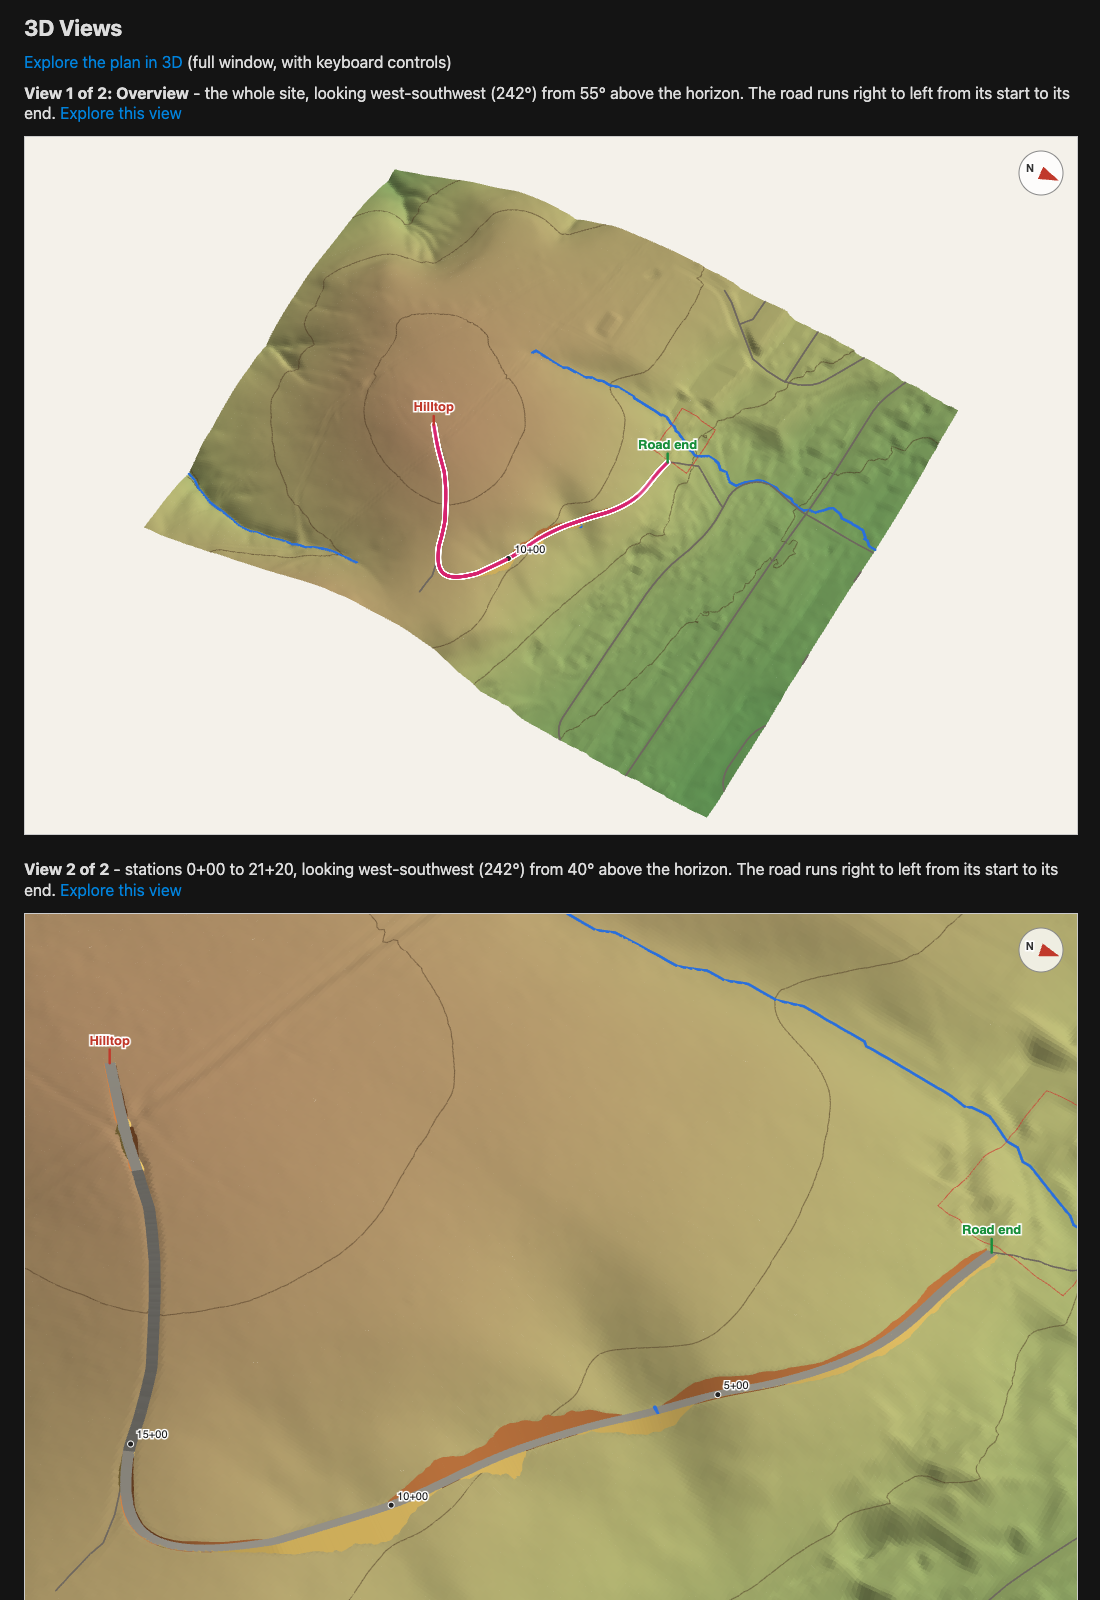
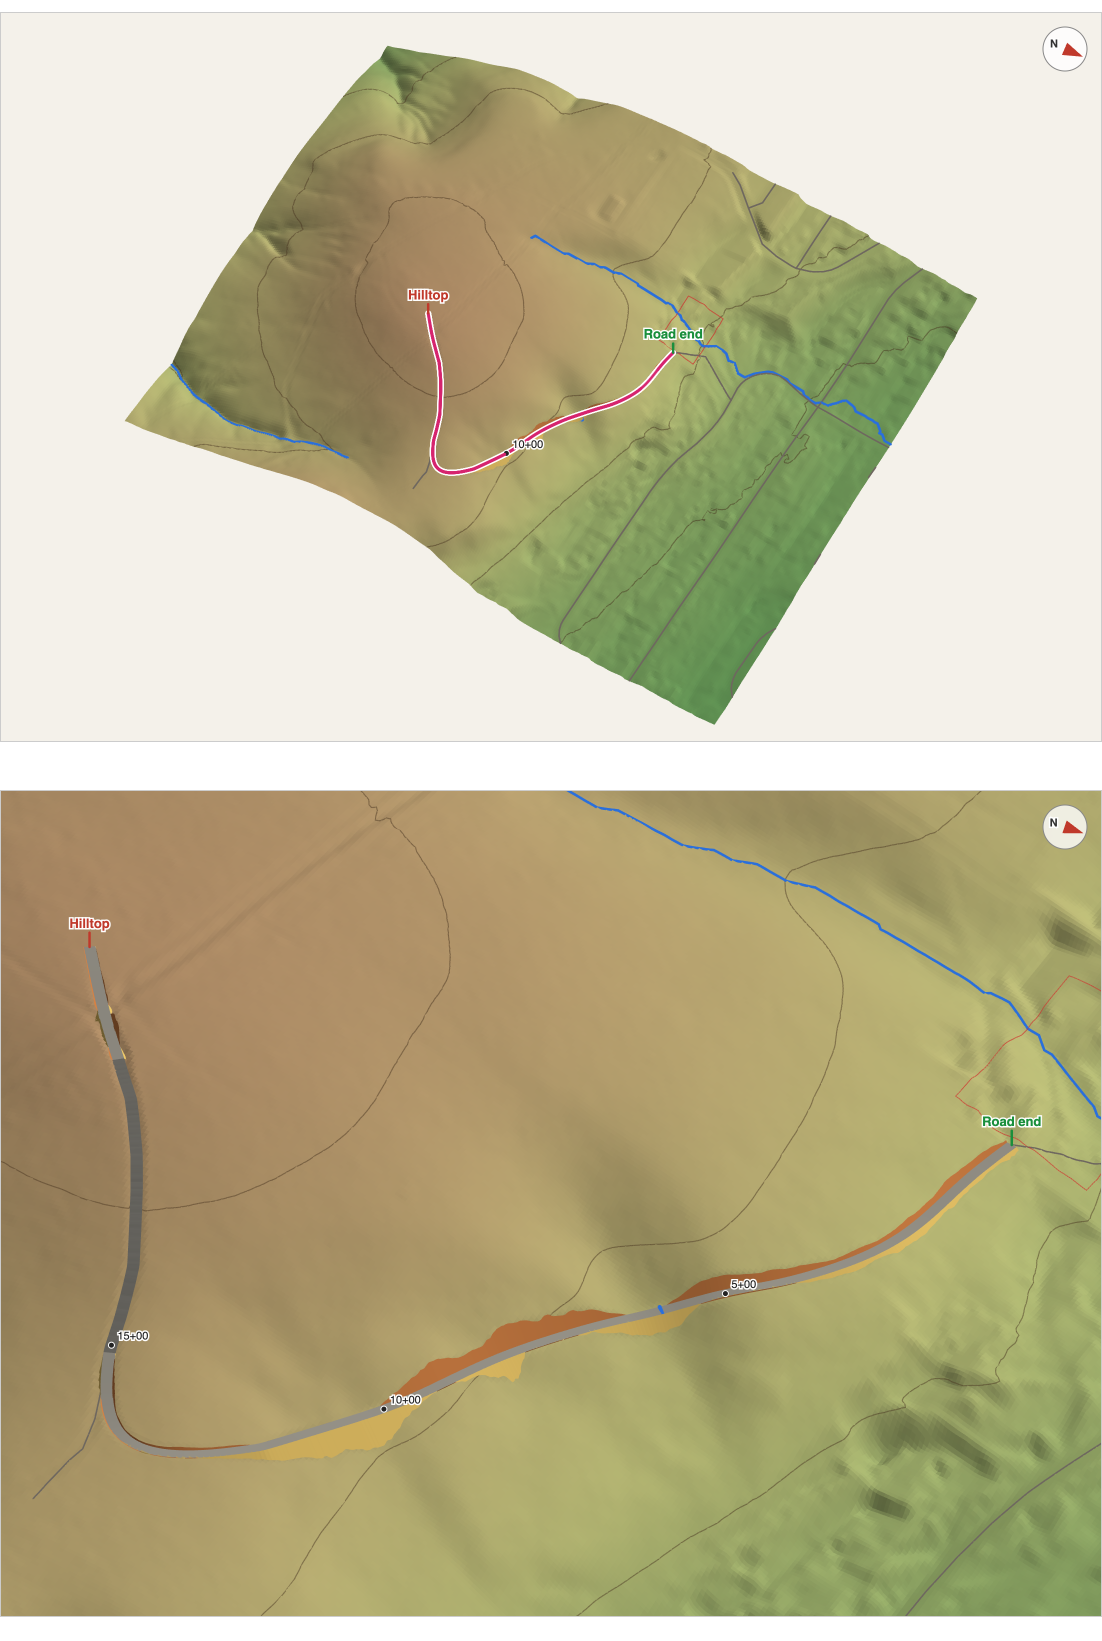
Link the README's screenshot and a new example link to the example plan
- The screenshot is the example report's two 3D drawings alone - it was
  the report's 3D views section, whose links (and stale "keyboard
  controls" text) looked clickable but were only an image. The gap
  between the drawings is transparent, for GitHub's dark theme.
- The screenshot links to the example plan in the web site's viewer, and
  a "View the example road plan" link follows it.
- The example section's viewer link is absolute, so it works on GitHub,
  too (it was relative to the web site).

diff --git a/README.md b/README.md
@@ -9,7 +9,11 @@ Elevation Program's 1 meter lidar terrain, engineers the road's options from the
 end point, and costs them, and an [Ollama](https://ollama.com) model reads what the notes ask for.
 Then view the options' report and 3D views, edit the plan and run it again, and save it to a file.
 
-![The Roadie viewer](example/screenshot.png)
+[![The example road plan's 3D views](example/screenshot.png)](https://craigahobbs.github.io/roadie/viewer/#url=../example/example.json)
+
+**[View the example road plan](https://craigahobbs.github.io/roadie/viewer/#url=../example/example.json)** - an access road up a hill, with its road options' report,
+3D views, and 3D explorer - in the Roadie viewer, on this project's web site. There's nothing to
+install. See [The example](#the-example).
 
 The application needs only Python 3.11 or later (and `git`, to install it). A site must be in the
 United States, where the USGS has 1 meter lidar terrain.
@@ -344,7 +348,7 @@ application and run it to make the plan again.
 
 Run the application, and open the example's file to view it - `example/example.json` in the
 repository, or [download it](https://craigahobbs.github.io/roadie/example/example.json). On the project's web site,
-[view the example](viewer/#url=../example/example.json) - the site's viewer links to it from its home
+[view the example](https://craigahobbs.github.io/roadie/viewer/#url=../example/example.json) - the site's viewer links to it from its home
 page, too.
 
 
